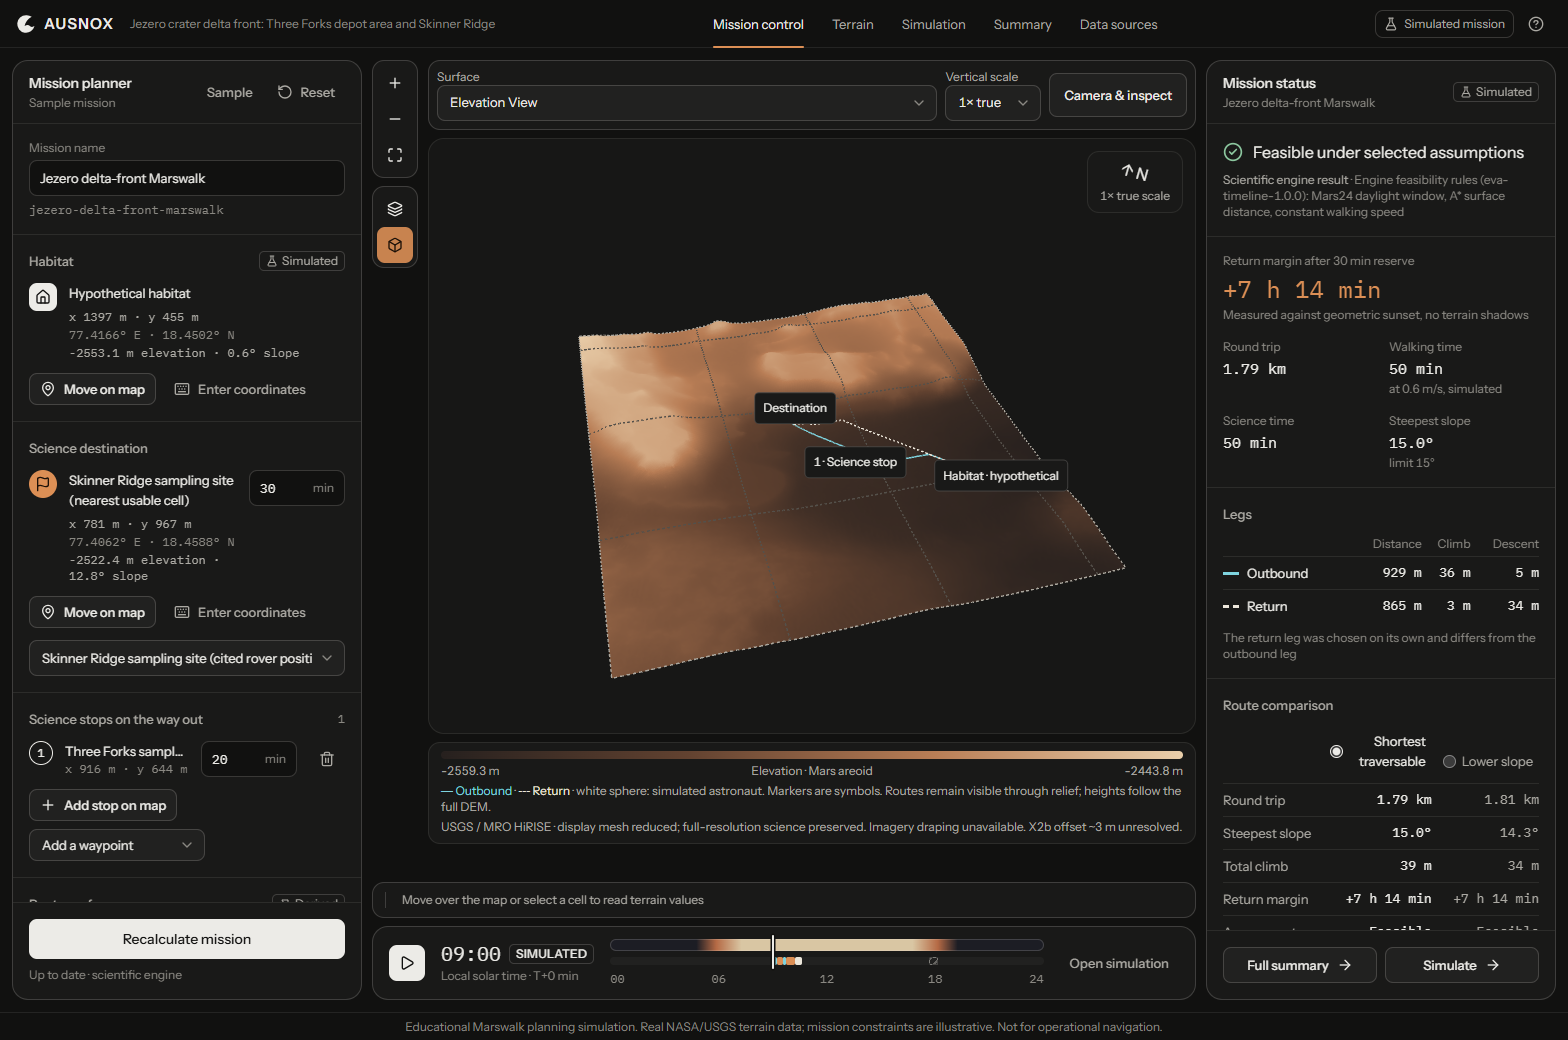
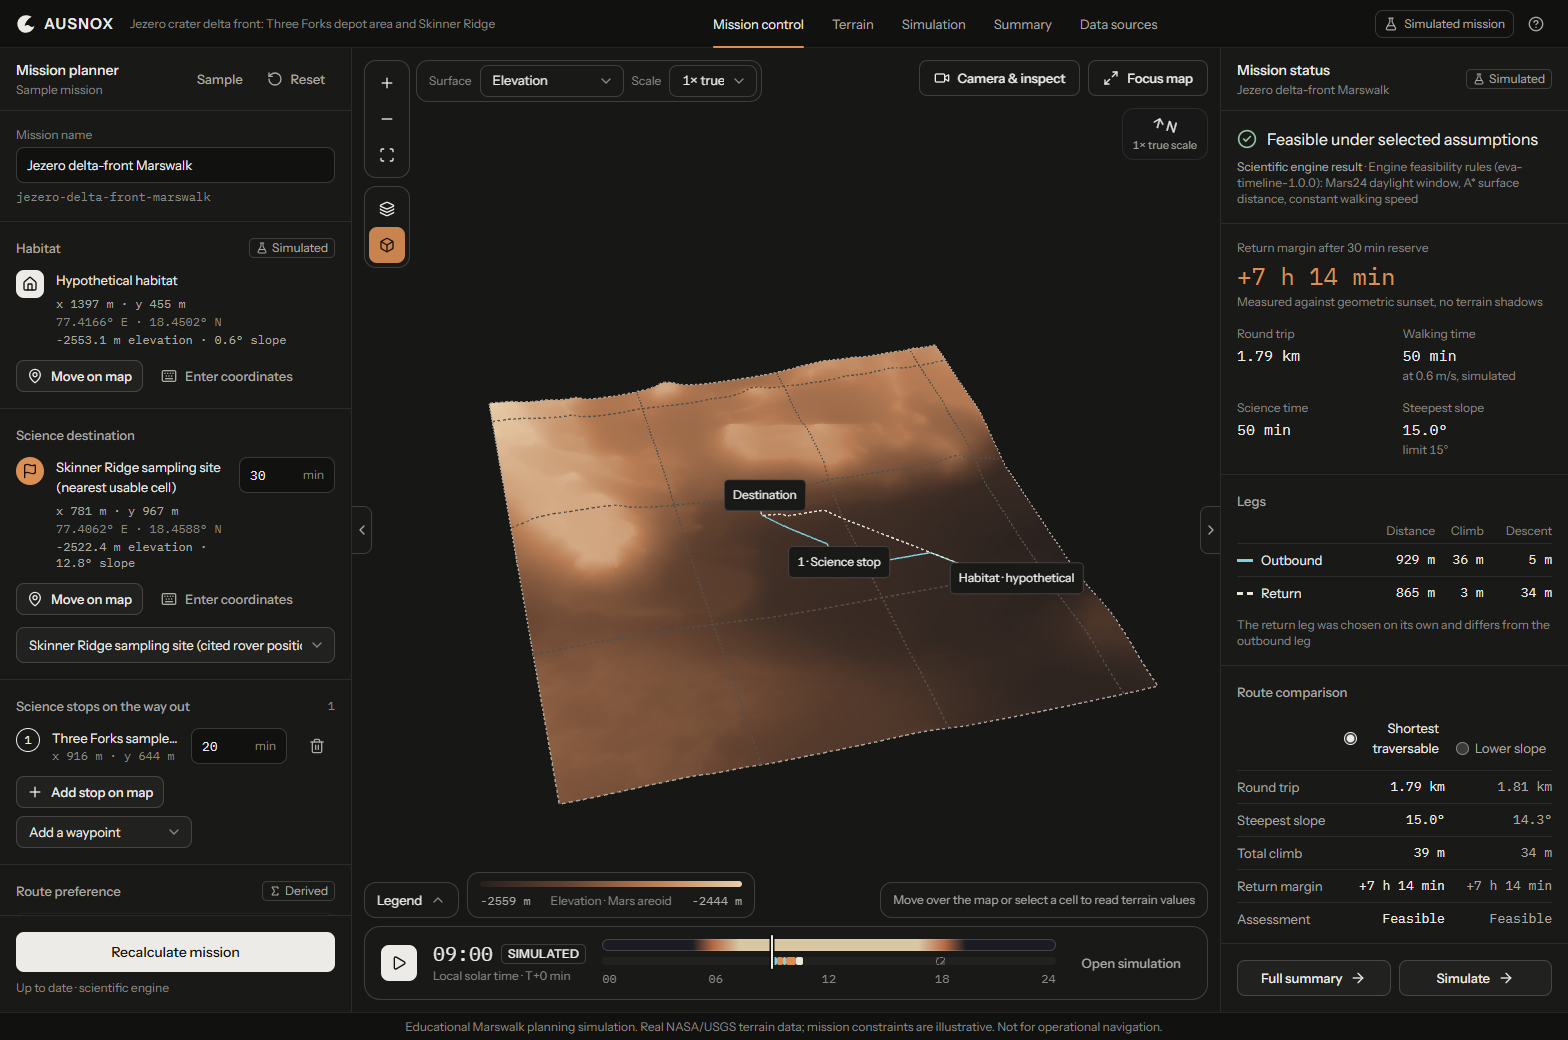
test(browser): cover workspace layout, focus map and map resizing
Adds a Playwright spec that measures real layout: panel widths, the map
taking freed space, Leaflet keeping its centre and zoom, imagery reaching
new edges, 3D canvas aspect and camera target through focus, scene reuse
across 2D and 3D, breakpoints without horizontal scroll, drawers and
sheets. The 3D spec now expects vertical scale to persist across 2D.

Before and after screenshots in docs/screenshots/workspace; the 3D set is
regenerated by the existing spec against the new layout.

diff --git a/tests/browser/workspace.spec.ts b/tests/browser/workspace.spec.ts
@@ -1,0 +1,182 @@
+import { expect, test, type Locator, type Page } from '@playwright/test'
+
+/*
+ * The immersive workspace: collapsible panels, focus map and the shared map container. These checks
+ * measure real layout in Chromium, which jsdom cannot: map and canvas sizes, Leaflet keeping its
+ * centre while the container changes, and the 3D camera aspect following the canvas.
+ */
+
+const shots = 'docs/screenshots/workspace'
+
+async function openMission(page: Page) {
+  await page.goto('/')
+  await page.evaluate(() => localStorage.removeItem('ausnox.panels.v1'))
+  await page.goto('/')
+  await page.getByRole('button', { name: /Use nearest usable cell,/ }).click()
+  await expect(page.getByRole('button', { name: 'Start simulation', exact: true })).toBeEnabled()
+}
+
+const box = async (l: Locator) => (await l.boundingBox())!
+const settle = (page: Page) => page.waitForTimeout(350)
+
+test('desktop: panels collapse on their own, the map takes the space and keeps its centre', async ({ page }) => {
+  await openMission(page)
+  const map = page.locator('.leaflet-container')
+  const habitat = page.locator('.mk-habitat')
+  const viewport = page.viewportSize()!
+  const full = await box(map)
+  expect(full.width).toBeLessThan(viewport.width - 600)
+  const planner = page.getByRole('region', { name: 'Mission planner' })
+  const panelWidth = (await box(planner)).width
+  expect(panelWidth).toBeGreaterThanOrEqual(320)
+  expect(panelWidth).toBeLessThanOrEqual(380)
+  // The scale bar is drawn from the zoom level, so an unchanged bar means an unchanged zoom.
+  const scaleBar = page.getByLabel(/^Map scale: bar is/)
+  const scale = { label: await scaleBar.getAttribute('aria-label'), width: (await box(scaleBar.locator('span').first())).width }
+
+  // Left collapsed: the map grows left by the panel width and Leaflet keeps the same geographic centre,
+  // so a marker moves by half the growth.
+  const before = await box(habitat)
+  await page.getByRole('button', { name: 'Hide mission planner' }).click()
+  await settle(page)
+  await expect(planner).toBeHidden()
+  const left = await box(map)
+  expect(left.x).toBeLessThan(2)
+  expect(left.width - full.width).toBeCloseTo(panelWidth, -1)
+  const after = await box(habitat)
+  expect(after.x - before.x).toBeCloseTo(-(left.width - full.width) / 2, -1)
+  await expect(page.getByRole('region', { name: 'Mission status' })).toBeVisible()
+  await page.screenshot({ path: `${shots}/after-desktop-2d-left-collapsed.png` })
+
+  // Both collapsed: no reserved columns.
+  await page.getByRole('button', { name: 'Hide mission status' }).click()
+  await settle(page)
+  const both = await box(map)
+  expect(both.width).toBeGreaterThan(viewport.width - 2)
+  await expect(page.getByRole('button', { name: 'Show mission planner' })).toBeVisible()
+  await expect(page.getByRole('button', { name: 'Show mission status' })).toBeVisible()
+  await page.screenshot({ path: `${shots}/after-desktop-2d-both-collapsed.png` })
+
+  // Zoom never changed with any of it, and imagery reaches the newly exposed left edge.
+  expect(await scaleBar.getAttribute('aria-label')).toBe(scale.label)
+  expect((await box(scaleBar.locator('span').first())).width).toBeCloseTo(scale.width, 0)
+  await expect
+    .poll(() =>
+      page.evaluate(() => {
+        const m = document.querySelector('.leaflet-container')!.getBoundingClientRect()
+        return [...document.querySelectorAll<HTMLImageElement>('.leaflet-tile-loaded')].some((t) => {
+          const r = t.getBoundingClientRect()
+          return r.left <= m.left + 2 && r.right > m.left + 40 && r.top < m.top + m.height / 2 && r.bottom > m.top + m.height / 2
+        })
+      }),
+    )
+    .toBe(true)
+
+  await page.getByRole('button', { name: 'Show mission planner' }).click()
+  await page.getByRole('button', { name: 'Show mission status' }).click()
+  await settle(page)
+  expect((await box(map)).width).toBeCloseTo(full.width, -1)
+})
+
+test('focus map in 2D and 3D: full workspace, camera kept, exact layout restored', async ({ page }) => {
+  await openMission(page)
+  await page.getByRole('button', { name: 'Hide mission status' }).click()
+  await page.getByRole('button', { name: 'Focus map', exact: true }).click()
+  await settle(page)
+  const map = page.locator('.leaflet-container')
+  expect((await box(map)).width).toBeGreaterThan(page.viewportSize()!.width - 2)
+  await expect(page.getByRole('region', { name: 'Mission planner' })).toBeHidden()
+  await expect(page.getByRole('button', { name: 'Exit focus map' })).toHaveAttribute('aria-pressed', 'true')
+  await expect(page.getByRole('button', { name: 'Legend' })).toBeVisible()
+  await page.screenshot({ path: `${shots}/after-desktop-2d-focus.png` })
+
+  // Simulation keeps working while focused.
+  const clock = page.getByRole('region', { name: 'Simulated mission clock' })
+  await clock.getByRole('button', { name: 'Start simulation' }).click()
+  await expect(page.locator('.mk-walker')).toBeVisible()
+  await clock.getByRole('button', { name: 'Pause simulation' }).click()
+
+  // 3D while focused: the canvas fills the workspace with an undistorted camera.
+  await page.getByRole('button', { name: '3D terrain view', exact: true }).click()
+  const canvas = page.locator('canvas[aria-label^="3D Jezero"]')
+  await expect(canvas).toHaveAttribute('data-triangles', '80000')
+  await page.getByLabel('3D surface').selectOption('elevation')
+  await settle(page)
+  const c = await box(canvas)
+  expect(c.width).toBeGreaterThan(page.viewportSize()!.width - 2)
+  const aspect = await canvas.evaluate((n) => (n as HTMLCanvasElement).width / (n as HTMLCanvasElement).height)
+  expect(aspect).toBeCloseTo(c.width / c.height, 1)
+  await page.getByRole('button', { name: 'Camera & inspect' }).click()
+  await page.getByRole('button', { name: 'Focus route', exact: true }).click()
+  await page.keyboard.press('Escape') // closes the popover, not focus mode
+  await expect(page.getByRole('button', { name: 'Exit focus map' })).toBeVisible()
+  await settle(page)
+  const target = await canvas.getAttribute('data-camera-target')
+  await page.screenshot({ path: `${shots}/after-desktop-3d-focus.png` })
+
+  // Exit: the planner comes back, status stays collapsed as it was, the camera does not move.
+  await page.keyboard.press('Escape')
+  await settle(page)
+  await expect(page.getByRole('region', { name: 'Mission planner' })).toBeVisible()
+  await expect(page.getByRole('region', { name: 'Mission status' })).toBeHidden()
+  await expect(canvas).toHaveAttribute('data-camera-target', target!)
+  const narrower = await box(canvas)
+  expect(narrower.width).toBeLessThan(c.width - 300)
+  const aspect2 = await canvas.evaluate((n) => (n as HTMLCanvasElement).width / (n as HTMLCanvasElement).height)
+  expect(aspect2).toBeCloseTo(narrower.width / narrower.height, 1)
+
+  // 2D → 3D → 2D with a panel collapsed keeps the panel state and the scene.
+  const scene = await canvas.getAttribute('data-scene-id')
+  await page.getByRole('button', { name: '3D terrain view', exact: true }).click()
+  await expect(page.locator('.leaflet-container')).toBeVisible()
+  await expect(page.getByRole('region', { name: 'Mission status' })).toBeHidden()
+  await page.getByRole('button', { name: '3D terrain view', exact: true }).click()
+  await expect(canvas).toHaveAttribute('data-scene-id', scene!)
+  await expect(page.getByLabel('3D surface')).toHaveValue('elevation')
+  await page.screenshot({ path: `${shots}/after-desktop-3d.png` })
+})
+
+test('browser resize across breakpoints keeps the map filling the workspace', async ({ page }) => {
+  await openMission(page)
+  await page.screenshot({ path: `${shots}/after-desktop-2d.png` })
+  for (const [width, height, name] of [[1024, 768, 'tablet'], [390, 844, 'mobile'], [1568, 1040, null]] as const) {
+    await page.setViewportSize({ width, height })
+    await settle(page)
+    const m = await box(page.locator('.leaflet-container'))
+    if (name) expect(m.width).toBeGreaterThan(width - 2)
+    expect(await page.evaluate(() => document.documentElement.scrollWidth <= window.innerWidth)).toBe(true)
+    if (name) await page.screenshot({ path: `${shots}/after-${name}-2d.png` })
+  }
+})
+
+test('tablet drawers and phone sheets: one at a time, Escape closes, map interaction returns', async ({ page }) => {
+  await page.setViewportSize({ width: 1024, height: 768 })
+  await openMission(page)
+  const planner = page.getByRole('region', { name: 'Mission planner' })
+  await page.getByRole('button', { name: 'Mission planner', exact: true }).click()
+  await expect(planner).toBeVisible()
+  await expect(planner).toBeFocused()
+  await page.screenshot({ path: `${shots}/after-tablet-2d-drawer.png` })
+  await page.getByRole('button', { name: 'Close mission planner' }).click()
+  await expect(planner).toBeHidden()
+  await expect(page.getByRole('button', { name: 'Mission planner', exact: true })).toBeFocused()
+
+  await page.setViewportSize({ width: 390, height: 844 })
+  await page.getByRole('button', { name: 'Mission status', exact: true }).click()
+  const sheet = page.getByRole('region', { name: 'Mission status' })
+  await expect(sheet).toBeVisible()
+  const s = await box(sheet)
+  expect(s.width).toBeCloseTo(390, -1)
+  await page.screenshot({ path: `${shots}/after-mobile-2d-sheet.png` })
+  await page.keyboard.press('Escape')
+  await expect(sheet).toBeHidden()
+
+  // The map takes clicks again: selecting a cell shows it lower-right.
+  const m = await box(page.locator('.leaflet-container'))
+  await page.mouse.click(m.x + m.width / 2, m.y + m.height * 0.4)
+  await expect(page.getByText(/^(Measured|Demo) terrain · /)).toBeVisible()
+  await page.getByRole('button', { name: '3D terrain view', exact: true }).click()
+  await expect(page.locator('canvas[aria-label^="3D Jezero"]')).toHaveAttribute('data-triangles', '80000')
+  await settle(page)
+  await page.screenshot({ path: `${shots}/after-mobile-3d.png` })
+})

diff --git a/tests/browser/jezero-3d.spec.ts b/tests/browser/jezero-3d.spec.ts
@@ -106,9 +106,14 @@ test('production DEM, both routes, camera, simulation, styles and shared mission
   await enter3D(page)
   await page.getByLabel('Vertical scale', { exact: true }).selectOption('3')
   await expect(page.getByText('3× visual only', { exact: true })).toBeVisible()
+  // The scene and its visualization options survive 2D and back; nothing is rebuilt or reset.
+  const sceneId = await canvas.getAttribute('data-scene-id')
   await page.getByRole('button', { name: '3D terrain view', exact: true }).click()
   await enter3D(page)
-  await expect(page.getByLabel('Vertical scale', { exact: true })).toHaveValue('1')
+  await expect(page.getByLabel('Vertical scale', { exact: true })).toHaveValue('3')
+  await expect(canvas).toHaveAttribute('data-vertical-scale', '3')
+  expect(await canvas.getAttribute('data-scene-id')).toBe(sceneId)
+  await page.getByLabel('Vertical scale', { exact: true }).selectOption('1')
   for (let i = 0; i < 3; i++) {
     await page.getByRole('button', { name: '3D terrain view', exact: true }).click()
     await enter3D(page)
@@ -161,6 +166,9 @@ test('tablet 3D layout and WebGL context loss preserve the route and working 2D 
   await expect(page.getByRole('button', { name: '3D terrain view', exact: true })).toHaveAttribute('aria-pressed', 'false')
   await expect(page.locator('.leaflet-container')).toBeVisible()
   await expect(page.getByRole('button', { name: 'Start simulation' })).toBeEnabled()
+  // Reopening 3D retries with a fresh WebGL context.
+  await enter3D(page)
+  await expect(page.getByRole('heading', { name: '3D terrain unavailable' })).toHaveCount(0)
 })
 
 test('WebGL unavailable is contained and preserves the mission', async ({ page }) => {
